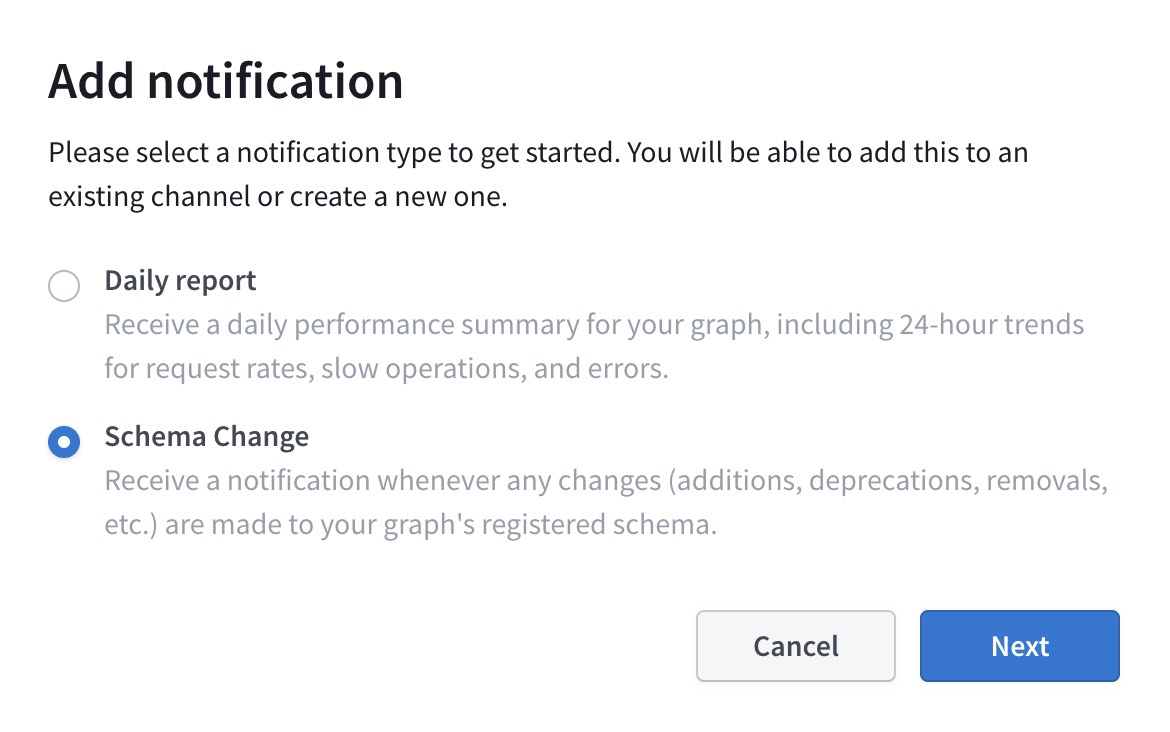
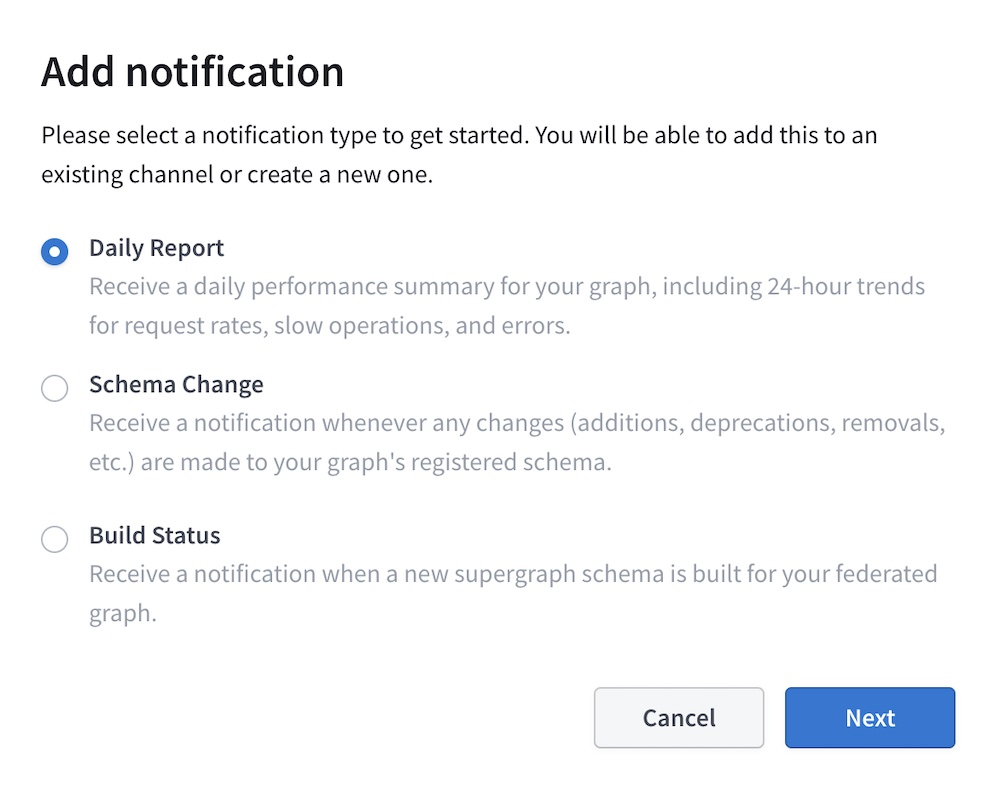
Update studio docs

Changed region(s): [[0.031, 0.0601, 0.93, 0.7814], [0.589, 0.8115, 0.961, 0.9617], [0.589, 0.8415, 0.62, 0.8716]]

diff --git a/src/components/EmbeddableExplorer.js b/src/components/EmbeddableExplorer.js
@@ -4,7 +4,7 @@ import {Box, useColorMode} from '@chakra-ui/react';
 
 export default function EmbeddableExplorer({
   graphRef = 'Apollo-Fullstack-Demo-o3tsz8@current',
-  endpointUrl = 'https://apollo-fullstack-tutorial.herokuapp.com/',
+  endpointUrl = 'https://apollo-fullstack-tutorial.herokuapp.com/graphql',
   document = `
     query GetLaunches {
       launches {

diff --git a/src/content/studio/notification-setup.md b/src/content/studio/notification-setup.md
@@ -29,9 +29,10 @@ Currently, Studio can send each of these notification types to the channel(s) in
 > For performance alerts, see [Performance alerts setup](./performance-alerts/#setup).
 
 1. Go to your graph's Settings page in [Apollo Studio](https://studio.apollographql.com/).
-2. Select the **Notifications** tab.
-3. Click **Add notification** in the upper right.
-4. Choose a notification type and click **Next**.
+2. Select the **Reporting** tab.
+3. Click **Add notification** in the upper right:
+   <img src="./img/add-new-alert.jpg" class="screenshot" width="500" alt="Add new alert button" />
+4. Select a notification type and click **Next**:
    <img src="./img/add-notification.jpg" class="screenshot" width="500" alt="Notification creation modal" />
 5. In the dropdown, select which [variant](./org/graphs/#managing-variants) of your graph you want to receive notifications for.
 6. Select an existing configured channel to send notifications to, or select which type of new channel you want to configure:

diff --git a/src/content/studio/performance-alerts.md b/src/content/studio/performance-alerts.md
@@ -23,14 +23,14 @@ Each performance alert you define can apply to either **a specific operation** o
 ## Setup
 
 1. Go to your graph's Settings page in [Apollo Studio](https://studio.apollographql.com/).
-2. Select the **Notifications** tab and scroll to the bottom of the page:
+2. Select the **Reporting** tab.
+3. Find the Performance Alerts card and click **Add a new alert**.
 
-   <img src="./img/integrations/perf_alert_setup.png" class="screenshot" alt="Performance alert" />
+  <img src="./img/add-new-alert.jpg" class="screenshot" width="500" alt="Add new alert button" />
 
-3. Click **Add new alert**.
 4. Configure the alert's **Operation Name**, **Trigger**, and **Trigger Value** to suit your needs.
 5. Select a **Channel** to send alerts to. You can select **New Channel** from the dropdown if you haven't yet configured the Slack channel or Pagerduty instance you want to use.
-6. Click **Done**.
+6. Click **Create**.
 
 ## Threshold window
 

diff --git a/src/content/studio/data-privacy.md b/src/content/studio/data-privacy.md
@@ -70,11 +70,8 @@ Let’s walk through Apollo Server's default behavior for reporting on fields in
 // GraphQL Response
 {
   "data": { ... },          // NEVER sent to Apollo Studio.
-  "errors": [ ... ],        // Sent to Studio, used to report on errors for operations and fields.
-  "extensions": {
-    "tracing": { ... },     // Sent to Studio, used to report on performance data for operations and fields.
-    "cacheControl": { ... } // Sent to Studio, used to determine cache policies and forward CDN cache headers.
-  }
+  "errors": [ ... ]
+  // Sent to Studio, used to report on errors for operations and fields.
 }
 ```
 
